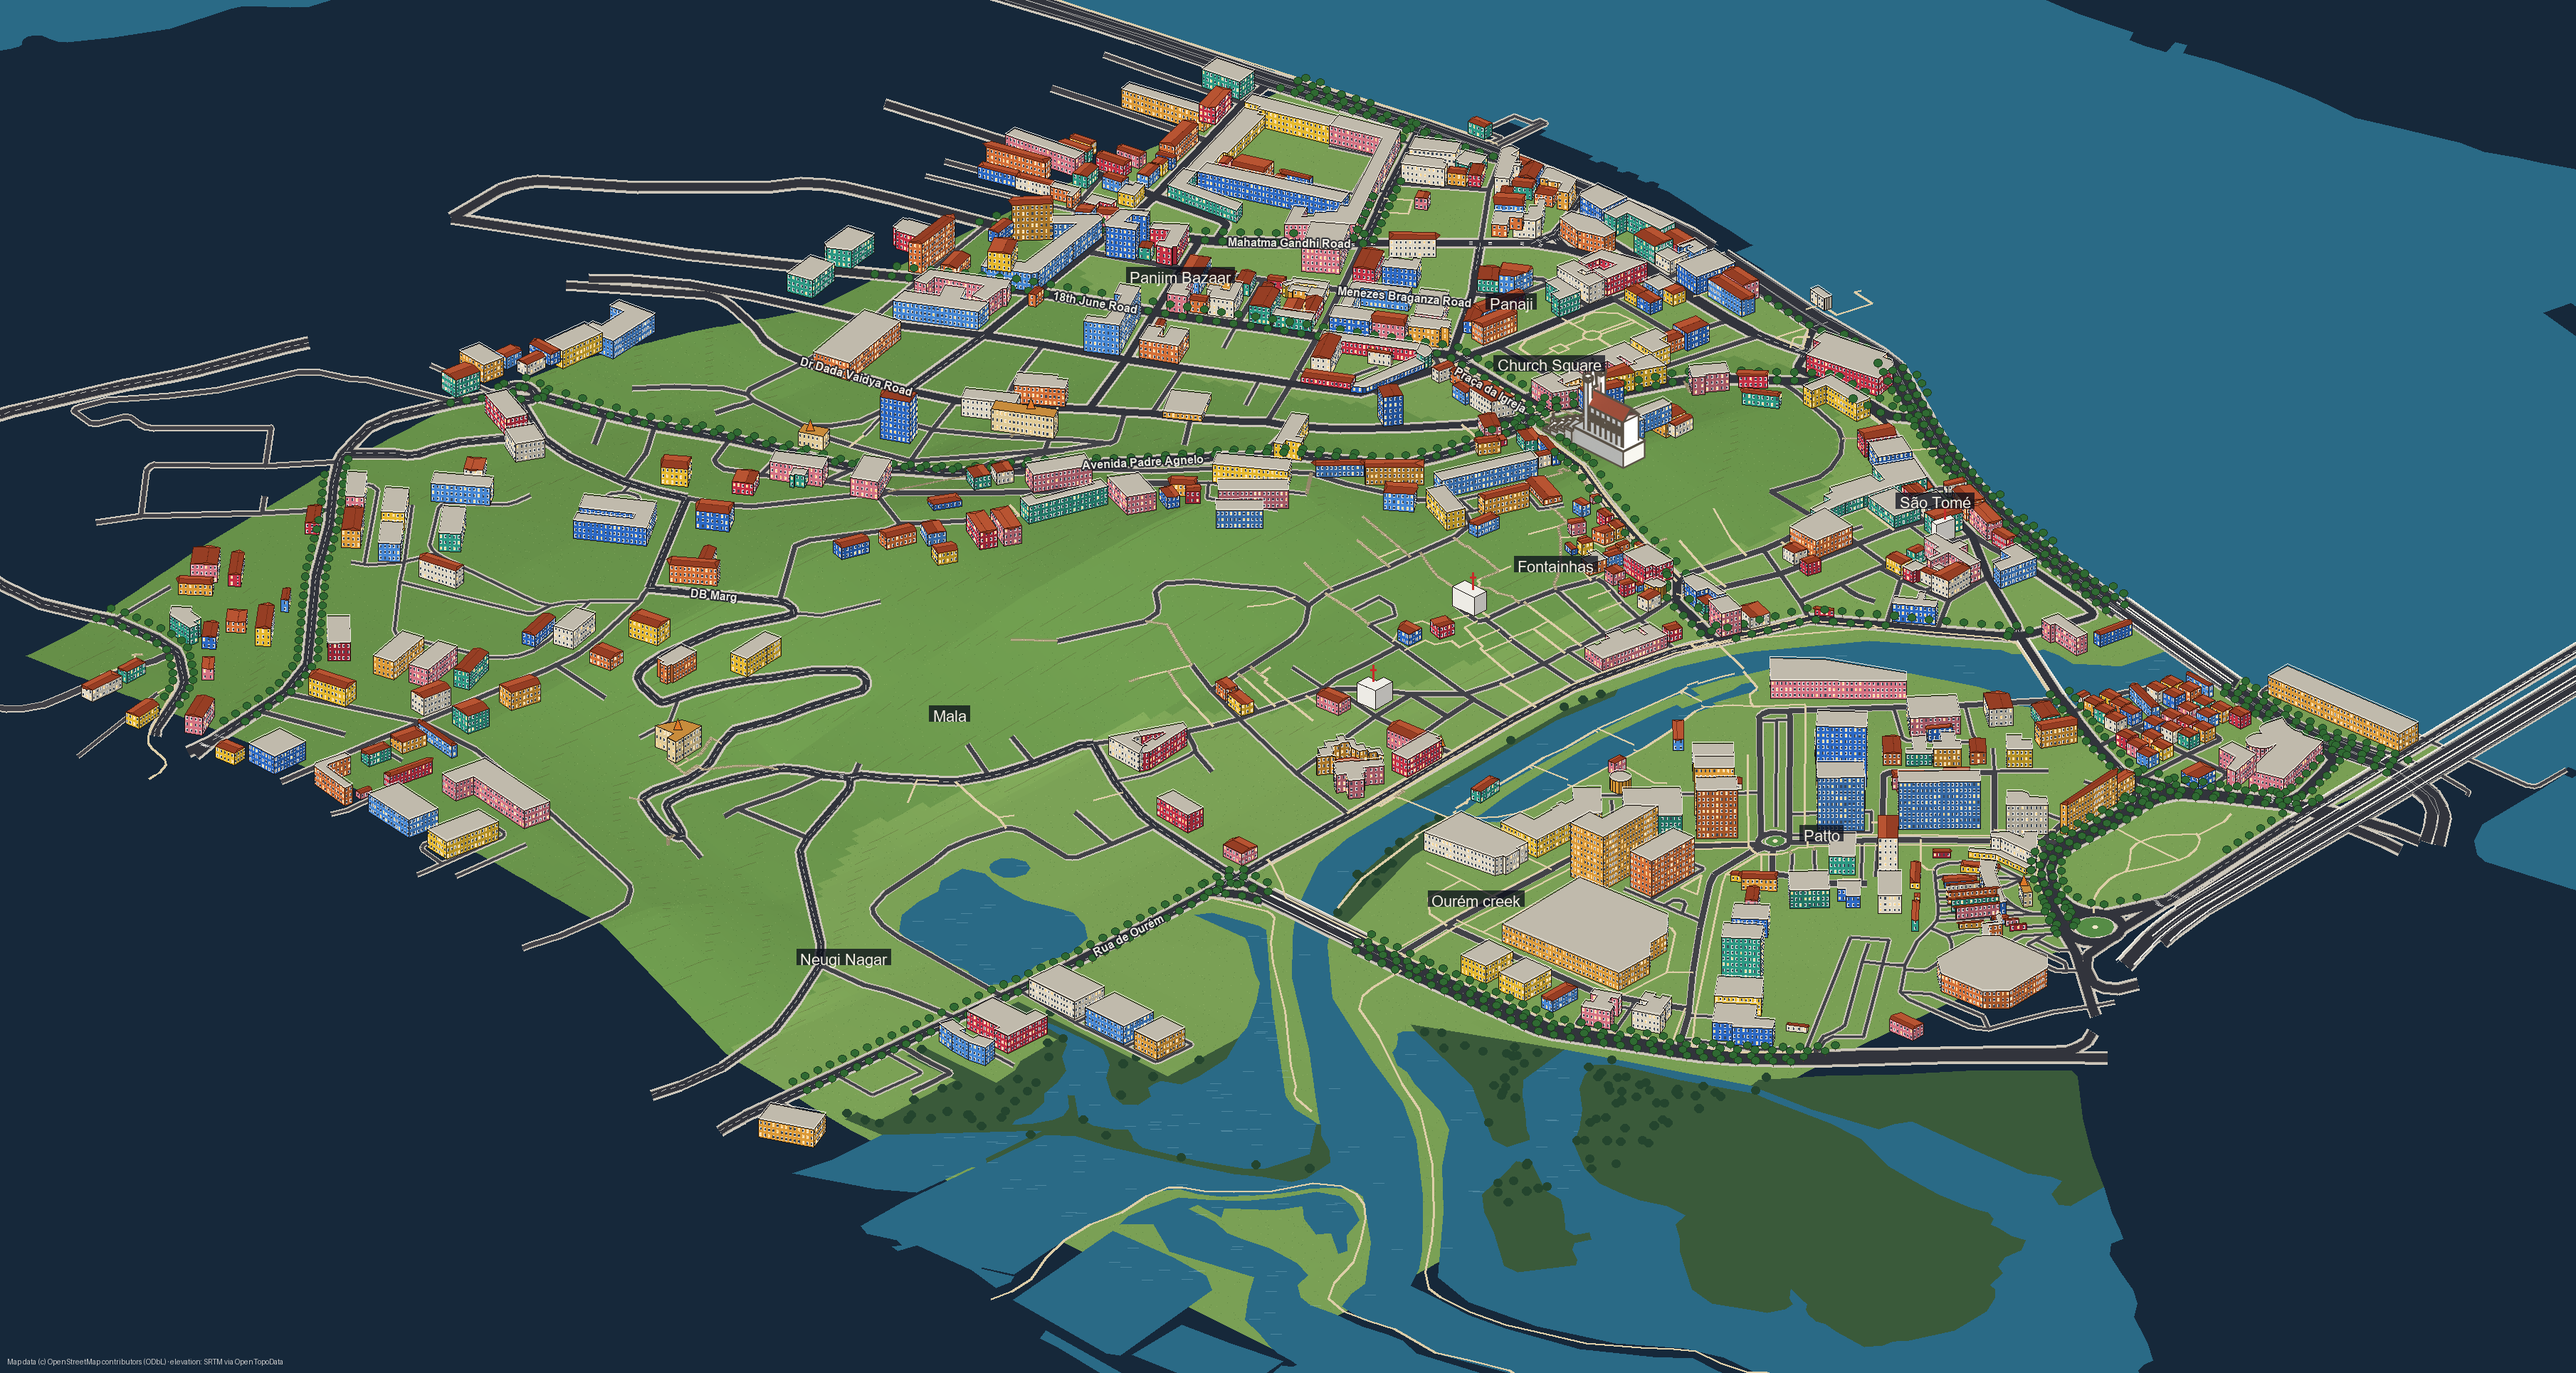
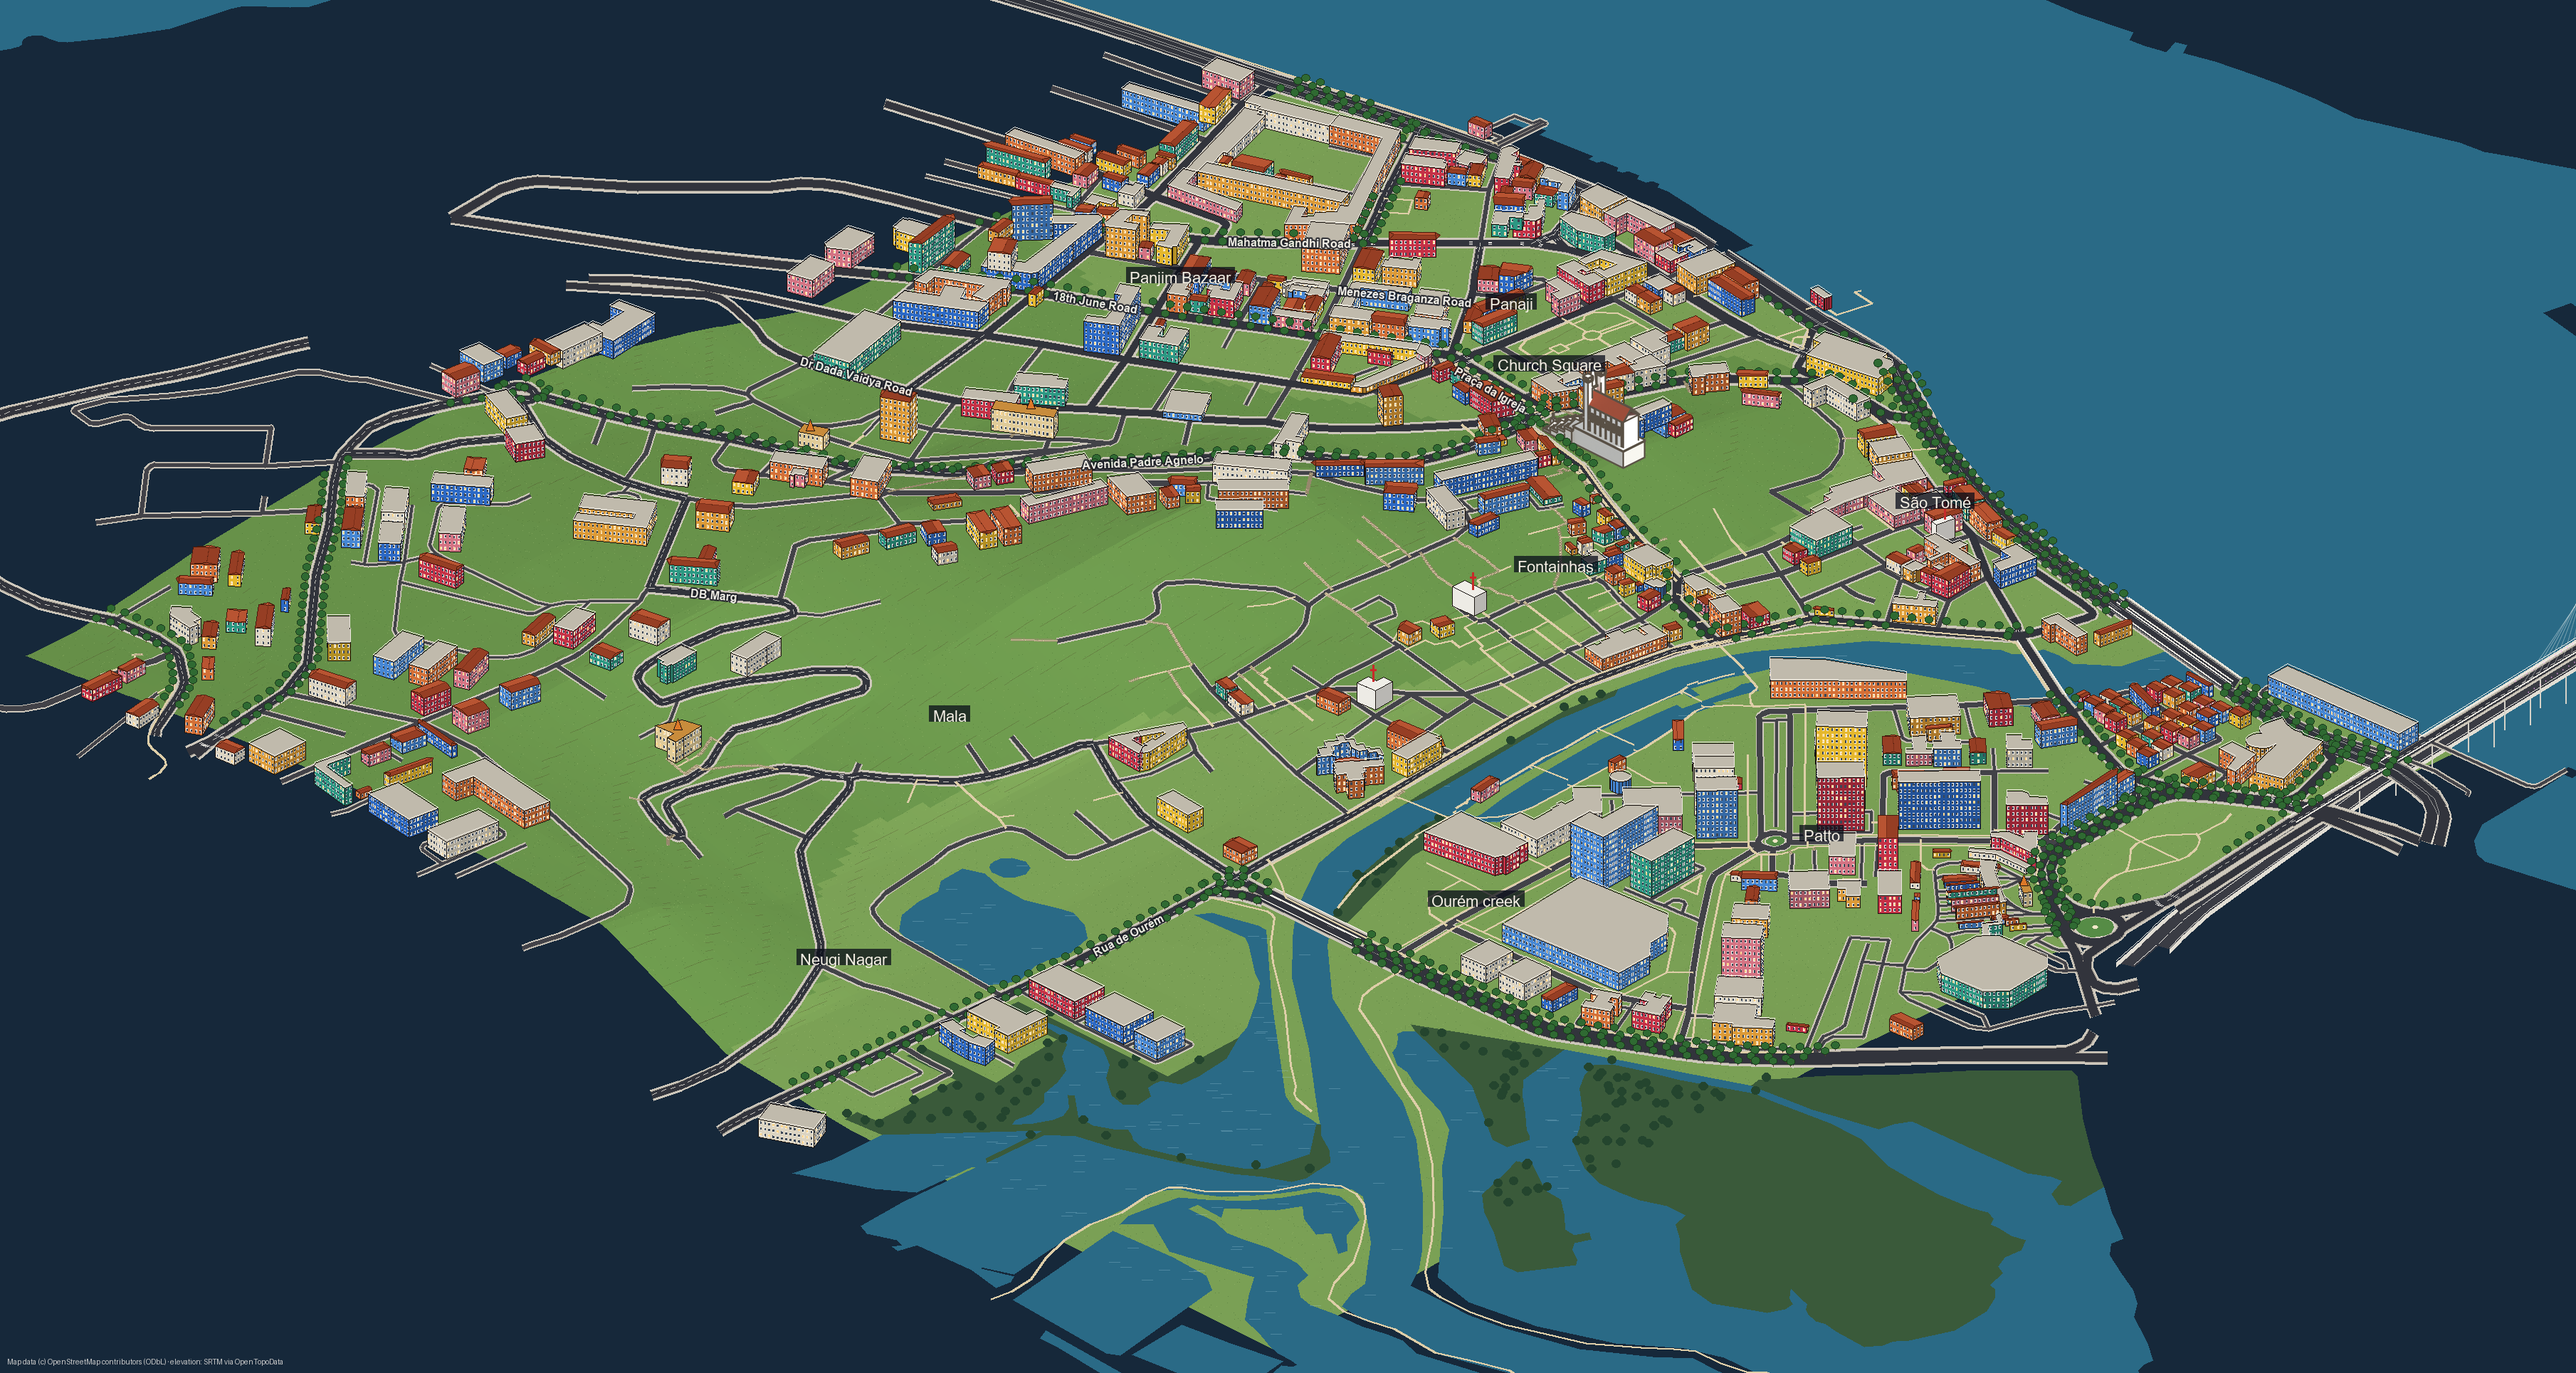
Panaji mock: the Atal Setu, elevated on piers, with cable-stayed pylons from Blender
tools/blender_atalsetu.py models one pylon of the Atal Setu: a white
mast standing in the median, a fan of stay cables both ways along the
bridge and the strip of lights along its edges, turned to the bridge's
real bearing from its OpenStreetMap route. The mock now draws the Atal
Setu's two carriageways as an elevated deck that climbs from the Patto
bank to about 22 m over the Mandovi on piers, and places a pylon at
each of three points over the river (count and spacing approximate).

diff --git a/tools/blender_atalsetu.py b/tools/blender_atalsetu.py
@@ -1,0 +1,104 @@
+"""A pylon of the Atal Setu, Panjim's cable-stayed bridge over the Mandovi, for the Rakhondar mock.
+
+    "C:\\Program Files\\Blender Foundation\\Blender 5.1\\blender.exe" -b --python tools/blender_atalsetu.py
+
+One pylon: a tall white mast in the median between the two carriageways, a fan of stay cables running both
+ways along the bridge, and the strip of lights along its edges; the deck itself is drawn by the mock, which
+also places a copy of this sprite at each pylon. The bridge's bearing comes from its OpenStreetMap route
+(about 7 degrees west of north). Pylon count and spacing are approximate.
+Metres; Blender x = east, y = north, z = up; the origin is the mast's foot at deck level.
+"""
+import bpy, json, math, os, pathlib
+
+ROOT = pathlib.Path(__file__).resolve().parent.parent
+OUT = ROOT / 'sprites'; OUT.mkdir(exist_ok=True)
+ELEV = math.asin(0.5)
+S = 1.25 / math.cos(math.radians(45)) * 2
+ZX = (2.6 * 2) / (S * math.cos(ELEV))
+RES = 1400
+# the bridge's direction, from its OpenStreetMap route (south end at Patto to the north bank)
+dx, dy = (73.83508 - 73.83756) * 107268, (15.51503 - 15.49653) * 110540
+AX = math.atan2(dx, dy)          # radians west (negative) of north
+MAST, SPAN = 46.0, 90.0          # mast height above the deck; how far the cables reach each way
+
+
+def col(h):
+    h = h.lstrip('#'); c = [int(h[i:i + 2], 16) / 255 for i in (0, 2, 4)]
+    return (*[v / 12.92 if v <= 0.04045 else ((v + 0.055) / 1.055) ** 2.4 for v in c], 1)
+
+
+M = {}
+def mat(h, rough=0.7, emit=0):
+    k = (h, emit)
+    if k in M: return M[k]
+    m = bpy.data.materials.new(h); m.use_nodes = True
+    b = next(n for n in m.node_tree.nodes if n.type == 'BSDF_PRINCIPLED')
+    b.inputs['Base Color'].default_value = col(h); b.inputs['Roughness'].default_value = rough
+    if emit: b.inputs['Emission Color'].default_value = col(h); b.inputs['Emission Strength'].default_value = emit
+    M[k] = m; return m
+
+
+for o in list(bpy.data.objects): bpy.data.objects.remove(o, do_unlink=True)
+bpy.ops.object.empty_add(location=(0, 0, 0)); root = bpy.context.active_object
+
+
+def own(o):
+    o.parent = root; return o
+
+
+def cyl(p0, p1, r, h, n=8):
+    from mathutils import Vector
+    p0, p1 = Vector(p0), Vector(p1); d = p1 - p0
+    bpy.ops.mesh.primitive_cylinder_add(vertices=n, radius=r, depth=d.length, location=(p0 + p1) / 2)
+    o = bpy.context.active_object; o.rotation_mode = 'QUATERNION'; o.rotation_quaternion = Vector((0, 0, 1)).rotation_difference(d)
+    o.data.materials.append(h); return own(o)
+
+
+WHITE = mat('#f4f2ec', 0.5)
+# the mast: tapering, split into two legs below the deck line and joined above, with a cap
+for side in (-1, 1):
+    cyl((side * 1.6, 0, -18), (side * 0.7, 0, 4), 0.9, WHITE, 10)
+cyl((0, 0, 0), (0, 0, MAST), 1.0, WHITE, 12)
+cyl((0, 0, MAST), (0, 0, MAST + 4), 0.6, WHITE, 10)
+bpy.ops.mesh.primitive_cube_add(size=1, location=(0, 0, MAST - 10)); o = bpy.context.active_object; o.scale = (2.6, 1.0, 22); o.data.materials.append(WHITE); own(o)
+# the stay cables: a fan from the top of the mast down to the deck, both ways along the bridge
+CABLE = mat('#dcd8cc', 0.4)
+for way in (-1, 1):
+    for k in range(1, 9):
+        cyl((0, 0, MAST - 1.5 - k * 1.6), (0, way * SPAN * k / 8, 0.6), 0.12, CABLE, 4)
+# the lights along the deck edges near the pylon (they glow pink at night)
+LED = mat('#ff5ad0', 0.4, 2.5)
+for side in (-1, 1):
+    for k in range(-12, 13):
+        bpy.ops.mesh.primitive_uv_sphere_add(radius=0.35, location=(side * 9.5, k * 7.5, 1.0), segments=8, ring_count=4)
+        bpy.context.active_object.data.materials.append(LED); own(bpy.context.active_object)
+root.rotation_euler = (0, 0, -AX)      # turn the bridge's axis from north to its real bearing
+root.scale = (1, 1, ZX)
+
+sc = bpy.context.scene
+sc.render.engine = 'CYCLES'; sc.cycles.samples = 32; sc.cycles.use_denoising = True
+sc.render.resolution_x = sc.render.resolution_y = RES
+sc.render.film_transparent = True; sc.render.image_settings.color_mode = 'RGBA'
+sc.view_settings.view_transform = 'Standard'
+sc.render.use_freestyle = False   # outlines swamp thin cables; the white mast reads on its own
+sc.render.line_thickness_mode = 'ABSOLUTE'; sc.render.line_thickness = 1.4
+fs = sc.view_layers[0].freestyle_settings; ls = fs.linesets[0] if fs.linesets else fs.linesets.new('ink')
+ls.linestyle.color = (0.1, 0.08, 0.06); ls.select_by_edge_types = True; ls.select_silhouette = ls.select_border = True; ls.select_crease = False
+w = sc.world or bpy.data.worlds.new('W'); sc.world = w; w.use_nodes = True
+bg = next(n for n in w.node_tree.nodes if n.type == 'BACKGROUND'); bg.inputs['Color'].default_value = (0.8, 0.84, 0.9, 1); bg.inputs['Strength'].default_value = 0.8
+ROT = int(os.environ.get('RK_ROT', 0)); theta = math.radians(45 + 90 * ROT)
+cd = bpy.data.cameras.new('cam'); cd.type = 'ORTHO'; cd.ortho_scale = RES / S
+cam = bpy.data.objects.new('cam', cd); bpy.context.collection.objects.link(cam)
+fwd = (-math.sin(theta) * math.cos(ELEV), math.cos(theta) * math.cos(ELEV), -math.sin(ELEV))
+cam.location = tuple(-400 * f for f in fwd); cam.rotation_euler = (math.pi / 2 - ELEV, 0, theta); sc.camera = cam
+sun = bpy.data.objects.new('sun', bpy.data.lights.new('sun', 'SUN')); bpy.context.collection.objects.link(sun)
+sun.data.energy = 3.0; sun.rotation_euler = (math.radians(45), 0, theta + math.radians(70))
+name = 'landmark_atalsetu.png' if ROT == 0 else f'landmark_atalsetu_r{ROT}.png'
+sc.render.filepath = str(OUT / name)
+bpy.ops.render.render(write_still=True)
+if ROT == 0:
+    # pylons over the river, in the median between the two carriageways, every ~210 m north of the Patto bank
+    pylons = [[15.4995 + 0.0019 * k, 73.83727 - 0.000255 * k * 1.0] for k in range(1, 4)]
+    json.dump({'file': name, 'anchor': [RES / 2, RES / 2], 'px_per_m': S, 'deck_z': 22, 'instances': pylons,
+               'covers': {'x': [0, 0], 'y': [0, 0]}}, open(OUT / 'landmark_atalsetu.json', 'w'))
+print('done')

diff --git a/tools/mock_real.py b/tools/mock_real.py
@@ -85,7 +85,7 @@ for e in els:
     if hw and e['type'] == 'way':
         pts = [xy(p['lat'], p['lon']) for p in e.get('geometry') or [] if p]
         if len(pts) > 1 and inside(pts):
-            if hw in ROADW: roads.append({'p': pts, 'w': ROADW[hw], 'bridge': bool(t.get('bridge')), 'hw': hw, 'name': t.get('name', ''), 'round': t.get('junction') in ('roundabout', 'circular'), 'oneway': t.get('oneway') == 'yes'})
+            if hw in ROADW: roads.append({'p': pts, 'w': ROADW[hw], 'bridge': bool(t.get('bridge')), 'hw': hw, 'name': t.get('name', ''), 'round': t.get('junction') in ('roundabout', 'circular'), 'oneway': t.get('oneway') == 'yes', 'atal': t.get('name') == 'Atal Setu'})
             elif hw in ('footway', 'path', 'steps', 'pedestrian', 'track', 'cycleway'): paths.append({'p': pts, 'steps': hw == 'steps', 'bridge': bool(t.get('bridge'))})
     if t.get('amenity') == 'place_of_worship':
         for r in rings(e) if e['type'] != 'node' else []:
@@ -94,8 +94,12 @@ print(f'{len(buildings)} buildings, {len(worship)} temples/churches, {len(roads)
 # landmarks modelled in Blender (tools/blender_*.py): each sprite replaces the plain blocks and steps under it
 LANDMARKS = []
 for jf in sorted((ROOT / 'sprites').glob('landmark_*.json')):
-    lm = json.load(open(jf)); ox_, oy_ = xy(lm['lat'], lm['lon'])
-    lm['x'], lm['y'] = ox_, oy_; lm['img'] = Image.open(ROOT / 'sprites' / lm['file']).convert('RGBA')
+    lm = json.load(open(jf)); img_ = Image.open(ROOT / 'sprites' / lm['file']).convert('RGBA')
+    insts = lm.get('instances') or [[lm['lat'], lm['lon']]]
+    for la_, lo_ in insts[1:]:
+        LANDMARKS.append(dict(lm, img=img_, x=xy(la_, lo_)[0], y=xy(la_, lo_)[1]))
+    ox_, oy_ = xy(*insts[0])
+    lm['x'], lm['y'] = ox_, oy_; lm['img'] = img_
     cov = lm['covers']; inside_cov = lambda px, py: cov['x'][0] <= px - ox_ <= cov['x'][1] and cov['y'][0] <= py - oy_ <= cov['y'][1]
     buildings[:] = [b for b in buildings if not inside_cov(sum(q[0] for q in b['r']) / len(b['r']), sum(q[1] for q in b['r']) / len(b['r']))]
     paths[:] = [q for q in paths if not all(inside_cov(*pt) for pt in q['p'])]
@@ -210,7 +214,26 @@ def render(name, x0, y0, x1, y1, scale, zscale, labels):
     # roads: pavement, kerb, asphalt, dashed centre line; bridges lifted with railings
     def line(pts, w, col, z=None):
         d.line([P(x, y, z) for x, y in pts], fill=col, width=max(1, int(round(w))), joint='curve')
-    vis = [r for r in roads if inbox(r['p'])]
+    vis = [r for r in roads if inbox(r['p']) and not r.get('atal')]
+    # the Atal Setu: an elevated deck that climbs from the Patto bank to ~22 m over the river, standing on piers
+    def deck_z(px, py):
+        s0 = math.hypot(px - patto[0], py - patto[1])
+        return min(22.0, 3 + s0 * 0.06)
+    patto = xy(15.49653, 73.83756)
+    for r in roads:
+        if not r.get('atal') or not inbox(r['p']): continue
+        pts = [q for q in r['p']]
+        for (ax, ay, ux, uy) in along(pts, 45):     # piers down to the water or ground
+            if not (x0 - 20 <= ax <= x1 + 20 and y0 - 20 <= ay <= y1 + 20): continue
+            z = deck_z(ax, ay)
+            d.line([P(ax, ay, 0), P(ax, ay, z)], fill=(214, 210, 200), width=max(2, int(2.2 * scale)))
+        for (ax, ay), (bx, by) in zip(pts, pts[1:]):
+            L = math.hypot(bx - ax, by - ay) or 1; nx_, ny_ = -(by - ay) / L * r['w'] / 2, (bx - ax) / L * r['w'] / 2
+            za, zb = deck_z(ax, ay), deck_z(bx, by)
+            d.polygon([P(ax + nx_, ay + ny_, za), P(bx + nx_, by + ny_, zb), P(bx - nx_, by - ny_, zb), P(ax - nx_, ay - ny_, za)], fill=(58, 60, 68))
+            d.polygon([P(ax - nx_, ay - ny_, za), P(bx - nx_, by - ny_, zb), P(bx - nx_, by - ny_, zb - 2.2), P(ax - nx_, ay - ny_, za - 2.2)], fill=(226, 222, 212))
+            for sgn in (1, -1):
+                d.line([P(ax + nx_ * sgn, ay + ny_ * sgn, za + 1.1), P(bx + nx_ * sgn, by + ny_ * sgn, zb + 1.1)], fill=(242, 240, 232), width=max(1, int(scale * 0.7)))
     for r in sorted(vis, key=lambda r: r['w']):                       # pavements, wider for the bigger roads
         line(r['p'], (r['w'] + (5 if r['w'] >= 8 else 3)) * scale, (206, 200, 188), 6 if r['bridge'] else None)
     for r in sorted(vis, key=lambda r: r['w']):                       # kerb
@@ -302,7 +325,7 @@ def render(name, x0, y0, x1, y1, scale, zscale, labels):
         if kind == 'l':   # a Blender landmark, scaled from its render to this view and pasted at its real spot
             k = scale / (b['px_per_m'] * math.cos(math.radians(45)))
             im = b['img'].resize((max(1, int(b['img'].width * k)), max(1, int(b['img'].height * k))), Image.LANCZOS)
-            ax_, ay_ = P(b['x'], b['y'])
+            ax_, ay_ = P(b['x'], b['y'], b.get('deck_z'))
             img.paste(im, (int(ax_ - b['anchor'][0] * k), int(ay_ - b['anchor'][1] * k)), im)
             continue
         r = b['r']; t = b['tags']
